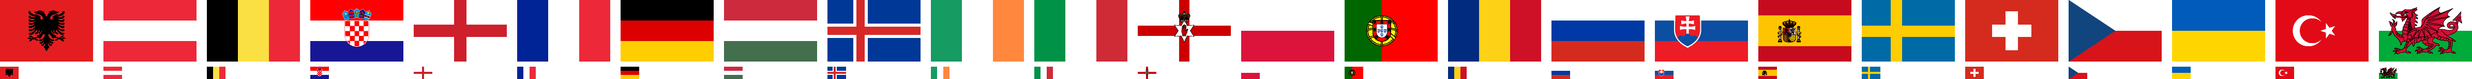
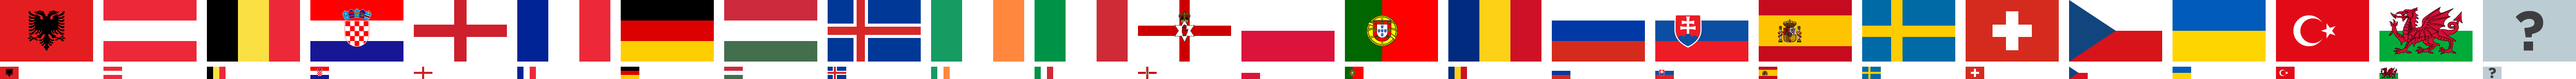
phase 1+ predictions

diff --git a/src/components/Predictions/PredictionBlock.js b/src/components/Predictions/PredictionBlock.js
@@ -14,7 +14,8 @@ class PredictionBlock extends Component {
     super(props);
     this.state = {
       scoreTeamA: this.props.data.scoreTeamA,
-      scoreTeamB: this.props.data.scoreTeamB
+      scoreTeamB: this.props.data.scoreTeamB,
+      winner: this.props.data.winner,
     };
   }
 
@@ -30,6 +31,7 @@ class PredictionBlock extends Component {
   componentDidUpdate() {
     if (this.state.scoreTeamA === undefined && this.state.scoreTeamA != this.props.data.scoreTeamA) {this.setState({scoreTeamA: this.props.data.scoreTeamA});}
     if (this.state.scoreTeamB === undefined && this.state.scoreTeamB != this.props.data.scoreTeamB) {this.setState({scoreTeamB: this.props.data.scoreTeamB});}
+    if (this.state.winner === undefined && this.state.winner != this.props.data.winner) {this.setState({winner: this.props.data.winner});}
   }
 
   handleChangeA(e) {
@@ -40,19 +42,19 @@ class PredictionBlock extends Component {
     this.setState({scoreTeamB: e.target.value});
   }
 
-  postPrediction(scoreA, scoreB) {
+  handleChangeWinner(winner) {
+    this.setState({winner: winner});
+  }
+
+  postPrediction() {
     if (!this.props.data._id){
       // Create prediction
       const route = this.context.getStore("RouteStore").getCurrentRoute();
-      let scoreTeamA = scoreA || this.state.scoreTeamA;
-      let scoreTeamB = scoreB || this.state.scoreTeamB;
-      this.context.executeAction(create, { route, scoreTeamA, scoreTeamB, gameId: this.props.gameData._id });
+      this.context.executeAction(create, { route, scoreTeamA: this.state.scoreTeamA, scoreTeamB: this.state.scoreTeamB, winner: this.state.winner, gamePhase: this.props.gameData.phase, gameId: this.props.gameData._id });
     } else {
       // Update prediction
       const route = this.context.getStore("RouteStore").getCurrentRoute();
-      let scoreTeamA = this.state.scoreTeamA;
-      let scoreTeamB = this.state.scoreTeamB;
-      this.context.executeAction(update, { route, scoreTeamA, scoreTeamB, predictionId: this.props.data._id });
+      this.context.executeAction(update, { route, scoreTeamA: this.state.scoreTeamA, scoreTeamB: this.state.scoreTeamB, winner: this.state.winner, gamePhase: this.props.gameData.phase, predictionId: this.props.data._id });
     }
   }
 
@@ -105,12 +107,29 @@ class PredictionBlock extends Component {
               {!pending &&
                 <div className="Prediction">
                   <div className="Inputs">
-                    <input type="number" value={scoreTeamA} onChange={this.handleChangeA.bind(this)} pattern="\d*" min="0" max="9" />
+                    <input type="number" value={scoreTeamA} onChange={this.handleChangeA.bind(this)} pattern="\d*" min="0" max="100" />
                     <span> - </span>
-                    <input type="number" value={scoreTeamB} onChange={this.handleChangeB.bind(this)} pattern="\d*" min="0" max="9" />
+                    <input type="number" value={scoreTeamB} onChange={this.handleChangeB.bind(this)} pattern="\d*" min="0" max="100" />
                   </div>
+                  {gameData.phase != 0 && this.state.scoreTeamA != undefined && this.state.scoreTeamA == this.state.scoreTeamB &&
+                    <div className="InputsBtns">
+                      <span>
+                        Gagnant :
+                      </span>
+                      <span>
+                        <div className={this.state.winner === 'teamA' ? 'TabBtn Active' : 'TabBtn'} onTouchTap={this.handleChangeWinner.bind(this, 'teamA')}>
+                          {!gameData.teamA && Labels[gameData.futureTeamA]}
+                          {gameData.teamA && Labels[gameData.teamA.slug.replace('-', '')]}
+                        </div>
+                        <div className={this.state.winner === 'teamB' ? 'TabBtn Active' : 'TabBtn'} onTouchTap={this.handleChangeWinner.bind(this, 'teamB')}>
+                          {!gameData.teamB && Labels[gameData.futureTeamB]}
+                          {gameData.teamB && Labels[gameData.teamB.slug.replace('-', '')]}
+                        </div>
+                      </span>
+                    </div>
+                  }
                   <div className="Btns">
-                    <div className="PaperBtn" onTouchTap={this.postPrediction.bind(this, undefined, undefined)}>{Labels.validate}</div>
+                    <div className="PaperBtn" onTouchTap={this.postPrediction.bind(this)}>{Labels.validate}</div>
                   </div>
                 </div>
               }

diff --git a/src/actions/Predictions/PredictionBlockAction.js b/src/actions/Predictions/PredictionBlockAction.js
@@ -4,24 +4,28 @@ import Actions from "../../constants/Actions";
 import GameModalHelper from "../../components/Helpers/GameModalHelper";
 
 const PredictionBlockAction = {
-  create(context, { route, scoreTeamA, scoreTeamB, gameId }, done) {
+  create(context, { route, scoreTeamA, scoreTeamB, winner, gamePhase, gameId }, done) {
     context.dispatch(Actions.PENDING_PREDICTIONS_CREATE);
 
-    if (isNaN(parseInt(scoreTeamA)) || isNaN(parseInt(scoreTeamB))){
+    if (isNaN(parseInt(scoreTeamA)) || isNaN(parseInt(scoreTeamB)))
+      return context.dispatch(Actions.APIOK_PREDICTIONS_CREATE, {});
+
+    let tmpWinner = winner || 'nobody';
+    if (scoreTeamA > scoreTeamB)
+      tmpWinner = 'teamA';
+    else if (scoreTeamA < scoreTeamB)
+      tmpWinner = 'teamB';
+
+    if (gamePhase != 0 && tmpWinner === 'nobody'){
+      context.dispatch(Actions.DIALOG_SHOW, 'Veuillez indiquer quelle équipe gagnera à l\'issue des tirs aux buts.');
       return context.dispatch(Actions.APIOK_PREDICTIONS_CREATE, {});
     }
-
-    let winner = 'nobody';
-    if (scoreTeamA > scoreTeamB)
-      winner = 'teamA';
-    else if (scoreTeamA < scoreTeamB)
-      winner = 'teamB';
 
     const body = {
       game: { _id: gameId },
       scoreTeamA: scoreTeamA,
       scoreTeamB: scoreTeamB,
-      winner: winner
+      winner: tmpWinner
     }
     return context.executeAction(postApi, { route, view: 'Predictions', body, action: Actions.APIOK_PREDICTIONS_CREATE})
     .then(() => {
@@ -33,21 +37,27 @@ const PredictionBlockAction = {
     });
   },
 
-  update(context, { route, scoreTeamA, scoreTeamB, predictionId }, done) {
+  update(context, { route, scoreTeamA, scoreTeamB, winner, gamePhase, predictionId }, done) {
     context.dispatch(Actions.PENDING_PREDICTION_UPDATE);
 
-    if (isNaN(parseInt(scoreTeamA)) || isNaN(parseInt(scoreTeamB))){return;}
+    if (isNaN(parseInt(scoreTeamA)) || isNaN(parseInt(scoreTeamB)))
+      return context.dispatch(Actions.APIOK_PREDICTION_UPDATE, {});
 
-    let winner = 'nobody';
+    let tmpWinner = winner || 'nobody';
     if (scoreTeamA > scoreTeamB)
-      winner = 'teamA';
+      tmpWinner = 'teamA';
     else if (scoreTeamA < scoreTeamB)
-      winner = 'teamB';
+      tmpWinner = 'teamB';
+
+    if (gamePhase != 0 && tmpWinner === 'nobody'){
+      context.dispatch(Actions.DIALOG_SHOW, 'Veuillez indiquer quelle équipe gagnera à l\'issue des tirs aux buts.');
+      return context.dispatch(Actions.APIOK_PREDICTION_UPDATE, {});
+    }
 
     const body = {
       scoreTeamA: scoreTeamA,
       scoreTeamB: scoreTeamB,
-      winner: winner
+      winner: tmpWinner
     }
 
     return context.executeAction(putApi, { predictionId, route, view: 'Prediction', body, action: Actions.APIOK_PREDICTION_UPDATE })

diff --git a/src/components/Games/GameBlock.js b/src/components/Games/GameBlock.js
@@ -24,7 +24,7 @@ class GameBlock extends Component {
         {!data && <div className="LoaderContainer"><div className="Loader" /></div>}
         {data &&
           <div>
-            <div className={'Stadium ' + data.stadium.toLowerCase()}></div>
+            <div className={data.stadium ? 'Stadium ' + data.stadium.toLowerCase().replace('é', 'e') : 'Stadium'}></div>
 
             <div className="GameBlockData">
               {data.status === 'TIMED' &&
@@ -50,6 +50,14 @@ class GameBlock extends Component {
               {data.phase === 4 && <div className="Phase">{Labels.Final}</div>}
 
               <div className="TeamBlock">
+                {!data.teamA &&
+                  <div className="Team">
+                    <div className="Flag">
+                      <div className="flag-60" />
+                    </div>
+                    <div className="Label">{Labels[data.futureTeamA]}</div>
+                  </div>
+                }
                 {data.teamA &&
                   <div className="Team">
                     <div className="Flag">
@@ -89,6 +97,14 @@ class GameBlock extends Component {
                       <div className={'flag-60 ' + data.teamB.slug} />
                     </div>
                     <div className="Label">{Labels[data.teamB.slug.replace('-', '')]}</div>
+                  </div>
+                }
+                {!data.teamB &&
+                  <div className="Team">
+                    <div className="Flag">
+                      <div className="flag-60" />
+                    </div>
+                    <div className="Label">{Labels[data.futureTeamB]}</div>
                   </div>
                 }
               </div>

diff --git a/src/components/Games/GamesTab.js b/src/components/Games/GamesTab.js
@@ -106,6 +106,14 @@ class GamesTab extends Component {
                             <div className="PredictionLabel">
                               <span className="icn-16 chip" />
                               <span>{'Mon pronostic : ' + predictions[item._id].scoreTeamA + ' - ' + predictions[item._id].scoreTeamB}</span>
+                              {item.phase != 0 && predictions[item._id].scoreTeamA == predictions[item._id].scoreTeamB &&
+                                <span>
+                                  {predictions[item._id].winner === 'teamA' && !item.teamA && ' (' + Labels[item.futureTeamA] + ')'}
+                                  {predictions[item._id].winner === 'teamA' && item.teamA && ' (' + Labels[item.teamA.slug.replace('-', '')] + ')'}
+                                  {predictions[item._id].winner === 'teamB' && !item.teamB && ' (' + Labels[item.futureTeamB] + ')'}
+                                  {predictions[item._id].winner === 'teamB' && item.teamB && ' (' + Labels[item.teamB.slug.replace('-', '')] + ')'}
+                                </span>
+                              }
                             </div>
                           }
                           {item.status === 'TIMED' && !predictions[item._id] &&

diff --git a/src/style/App/Btn.scss b/src/style/App/Btn.scss
@@ -21,6 +21,39 @@
   &.inactive{background: transparent; border: solid $grey-3 1px; line-height: 28px;}
 }
 
+.TabBtn{
+  display: inline-block;
+  vertical-align: top;
+  padding: 0 8px;
+  cursor: pointer;
+  height: 30px;
+  line-height: 28px;
+  font-size: 13px;
+  color: $grey-dark;
+  border-top: solid $grey-medium 1px;
+  border-bottom: solid $grey-medium 1px;
+  border-left: solid $grey-medium 1px;
+
+  &:first-child{
+    border-top-left-radius: 3px;
+    border-bottom-left-radius: 3px;
+    margin-left: 6px;
+  }
+
+  &:last-child{
+    border-top-right-radius: 3px;
+    border-bottom-right-radius: 3px;
+    border-right: solid $grey-medium 1px;
+  }
+
+  &:hover{background-color: $grey-3;}
+  &:focus{background-color: $grey-3; outline: none; border: $fluo-blue solid 1px;}
+  &:active{background: $grey-2; color: $footix-blue}
+  &.Active, &.Active span{background: $footix-blue; color: white;}
+  &.Inactive{background: transparent; border: solid $grey-3 1px; line-height: 28px;}
+}
+
+
 .PaperBtn{
   display: inline-block;
   vertical-align: top;

diff --git a/src/style/Games/GameBlock.scss b/src/style/Games/GameBlock.scss
@@ -21,7 +21,7 @@
     &.nice{background: url('../../assets/staduims/nice.jpg') center center no-repeat; background-size: cover;}
     &.paris{background: url('../../assets/staduims/paris.jpg') center center no-repeat; background-size: cover;}
     &.saint-denis{background: url('../../assets/staduims/saint-denis.jpg') center center no-repeat; background-size: cover;}
-    &.saint-etienne, &.saint-étienne{background: url('../../assets/staduims/saint-etienne.jpg') center center no-repeat; background-size: cover;}
+    &.saint-etienne, &.saint-etiennes{background: url('../../assets/staduims/saint-etienne.jpg') center center no-repeat; background-size: cover;}
     &.toulouse{background: url('../../assets/staduims/toulouse.jpg') center bottom no-repeat; background-size: cover;}
   }
 

diff --git a/src/style/App/Icons.scss b/src/style/App/Icons.scss
@@ -7,7 +7,7 @@
 
 @mixin uiux-flags{
   background: url('../../assets/uiux_flags.png') 0 0 no-repeat;
-  background-size: 2390px 77px;
+  background-size: 2490px 77px;
 }
 
 .icn-10{
@@ -161,6 +161,7 @@
 .flag-60{
   @include uiux-flags;
   width: 90px; height: 60px;
+  background-position: -2400px -0px;
 
   &.albania{background-position: -0px -0px;}
   &.austria{background-position: -100px -0px;}
@@ -191,6 +192,7 @@
 .flag-12{
   @include uiux-flags;
   width: 18px; height: 12px;
+  background-position: -2400px -0px;
 
   &.albania{background-position: -0px -65px;}
   &.austria{background-position: -100px -65px;}

diff --git a/src/style/Predictions/PredictionBlock.scss b/src/style/Predictions/PredictionBlock.scss
@@ -18,8 +18,6 @@
     text-align: center;
 
     .Inputs{
-      padding: 0 6px 0 0;
-
       input, span{
         font-family: $font-family-numbers;
         font-size: $font-size-numbers;
@@ -27,6 +25,23 @@
         text-rendering: $text-rendering-numbers;
         height: 40px;
       }
+
+      input{
+        width: 52px;
+        text-align: center;
+      }
+    }
+
+    .InputsBtns{
+      border-top: dotted $grey-5 1px;
+      margin-top: 12px;
+      padding-top: 12px;
+
+      span{
+        font-size: 15px;
+        line-height: 28px;
+      }
+
     }
 
     .Btns{

diff --git a/src/stores/Games/GameBlockStore.js b/src/stores/Games/GameBlockStore.js
@@ -6,7 +6,6 @@ class GameBlockStore extends BaseStore {
 
   static handlers = {
     [Actions.APIOK_GAME]: "handleApiOk",
-    [Actions.APIOK_GAMES_NEXT]: "handleApiOkNext",
   }
 
   constructor(dispatcher) {
@@ -19,15 +18,6 @@ class GameBlockStore extends BaseStore {
       this.data[data._id] = data;
     } else {
       this.data[data._id] = {};
-    }
-    this.emitChange();
-  }
-
-  handleApiOkNext({ data, route }) {
-    if (data && data[0]){
-      this.data = data[0];
-    } else {
-      this.data = {};
     }
     this.emitChange();
   }

diff --git a/src/stores/Predictions/PredictionBlockStore.js b/src/stores/Predictions/PredictionBlockStore.js
@@ -70,7 +70,7 @@ class PredictionBlockStore extends BaseStore {
     this.emitChange();
   }
 
-  getData(game) {return this.data[game] ? this.data[game] : { scoreTeamA: undefined, scoreTeamB: undefined };}
+  getData(game) {return this.data[game] ? this.data[game] : { scoreTeamA: undefined, scoreTeamB: undefined, winner: undefined };}
   getPending() {return this.pending;}
 
   dehydrate() {
